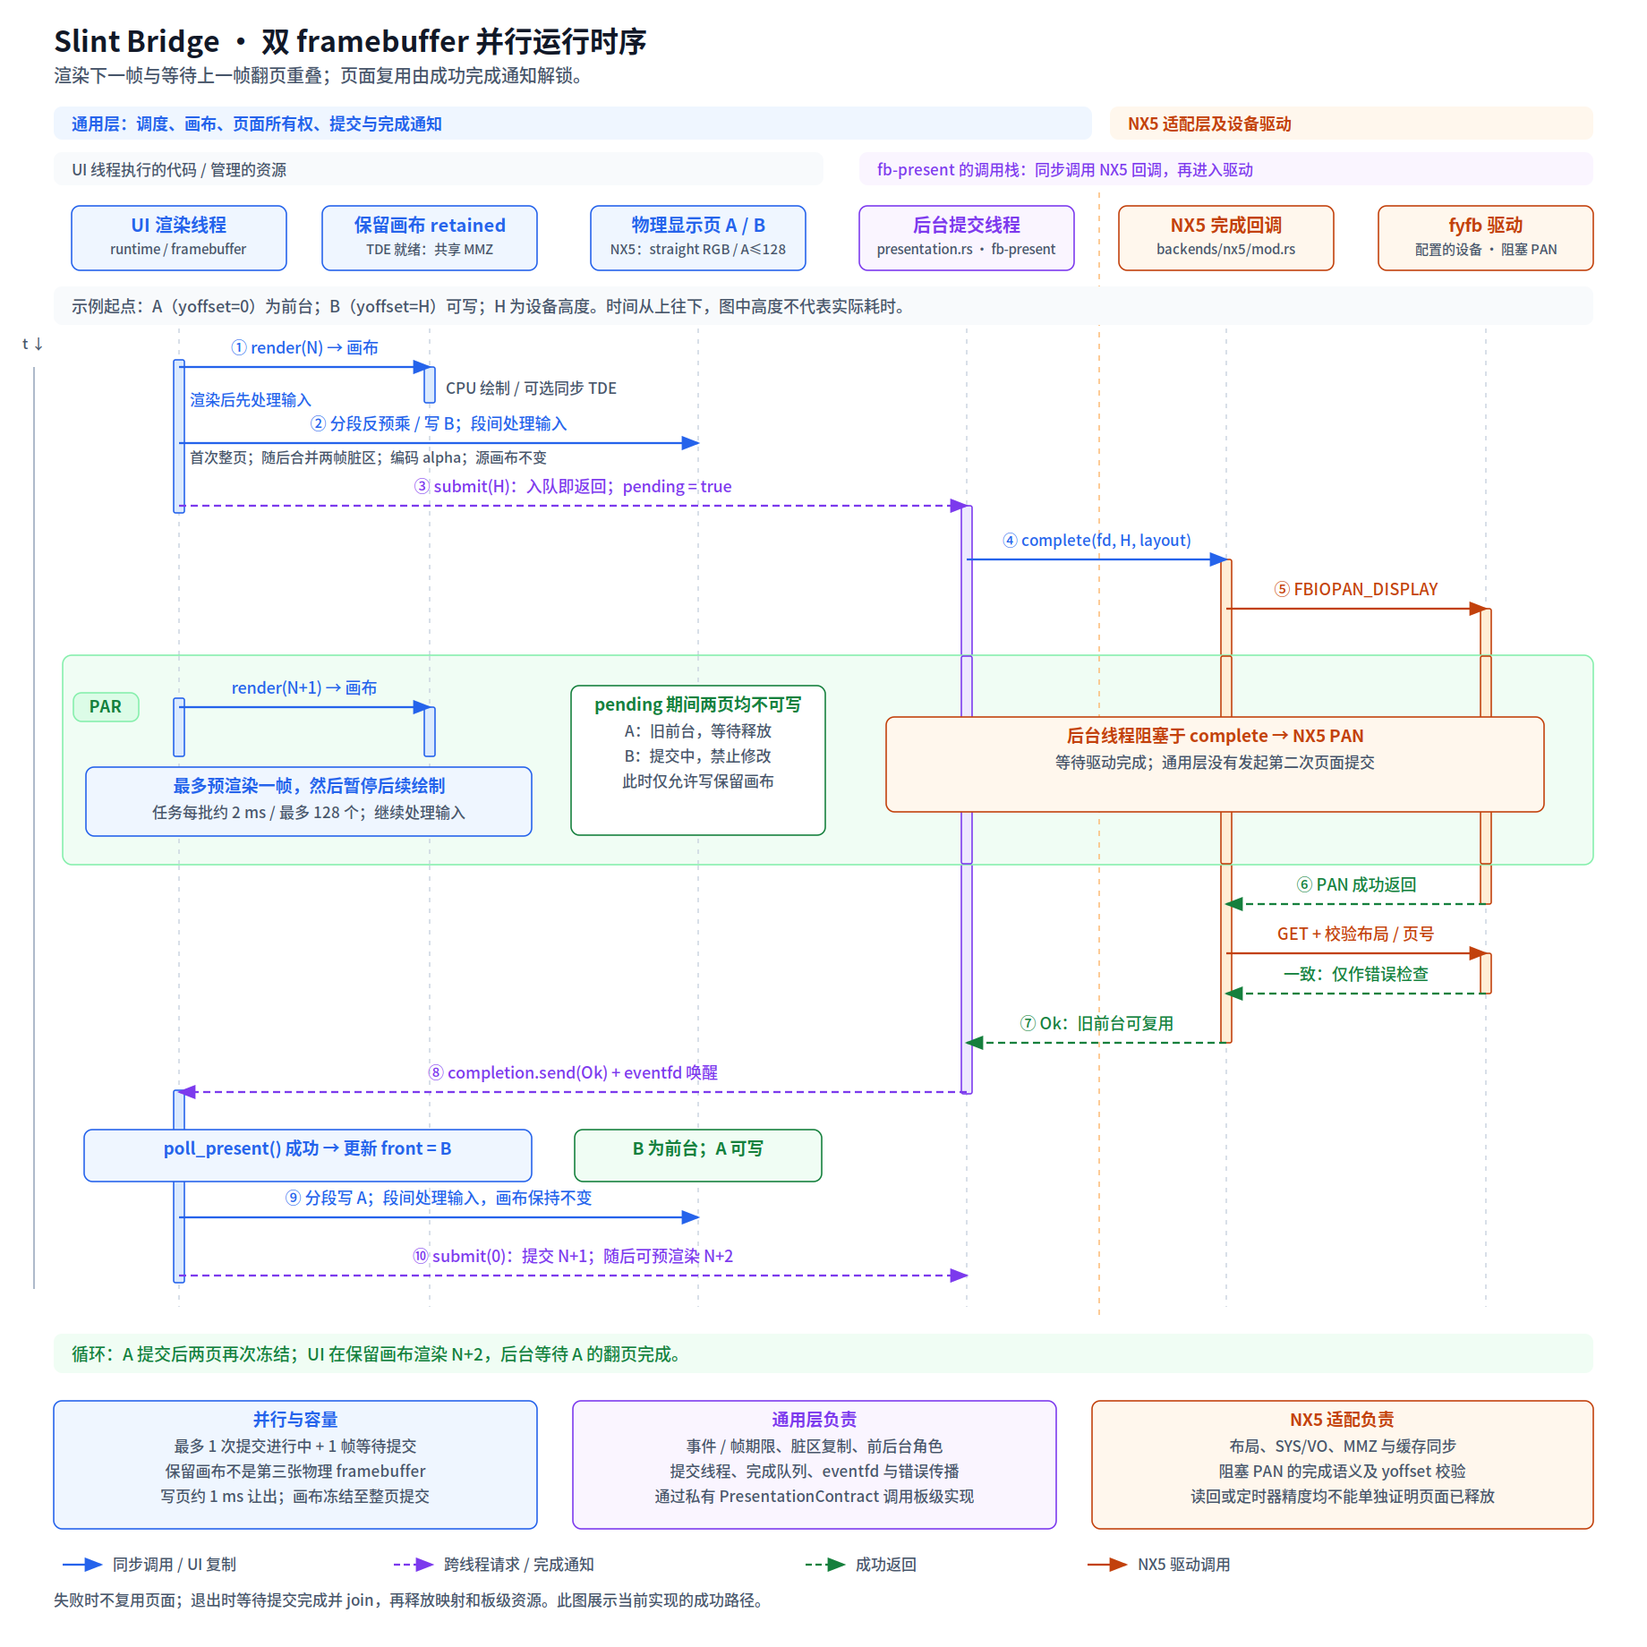
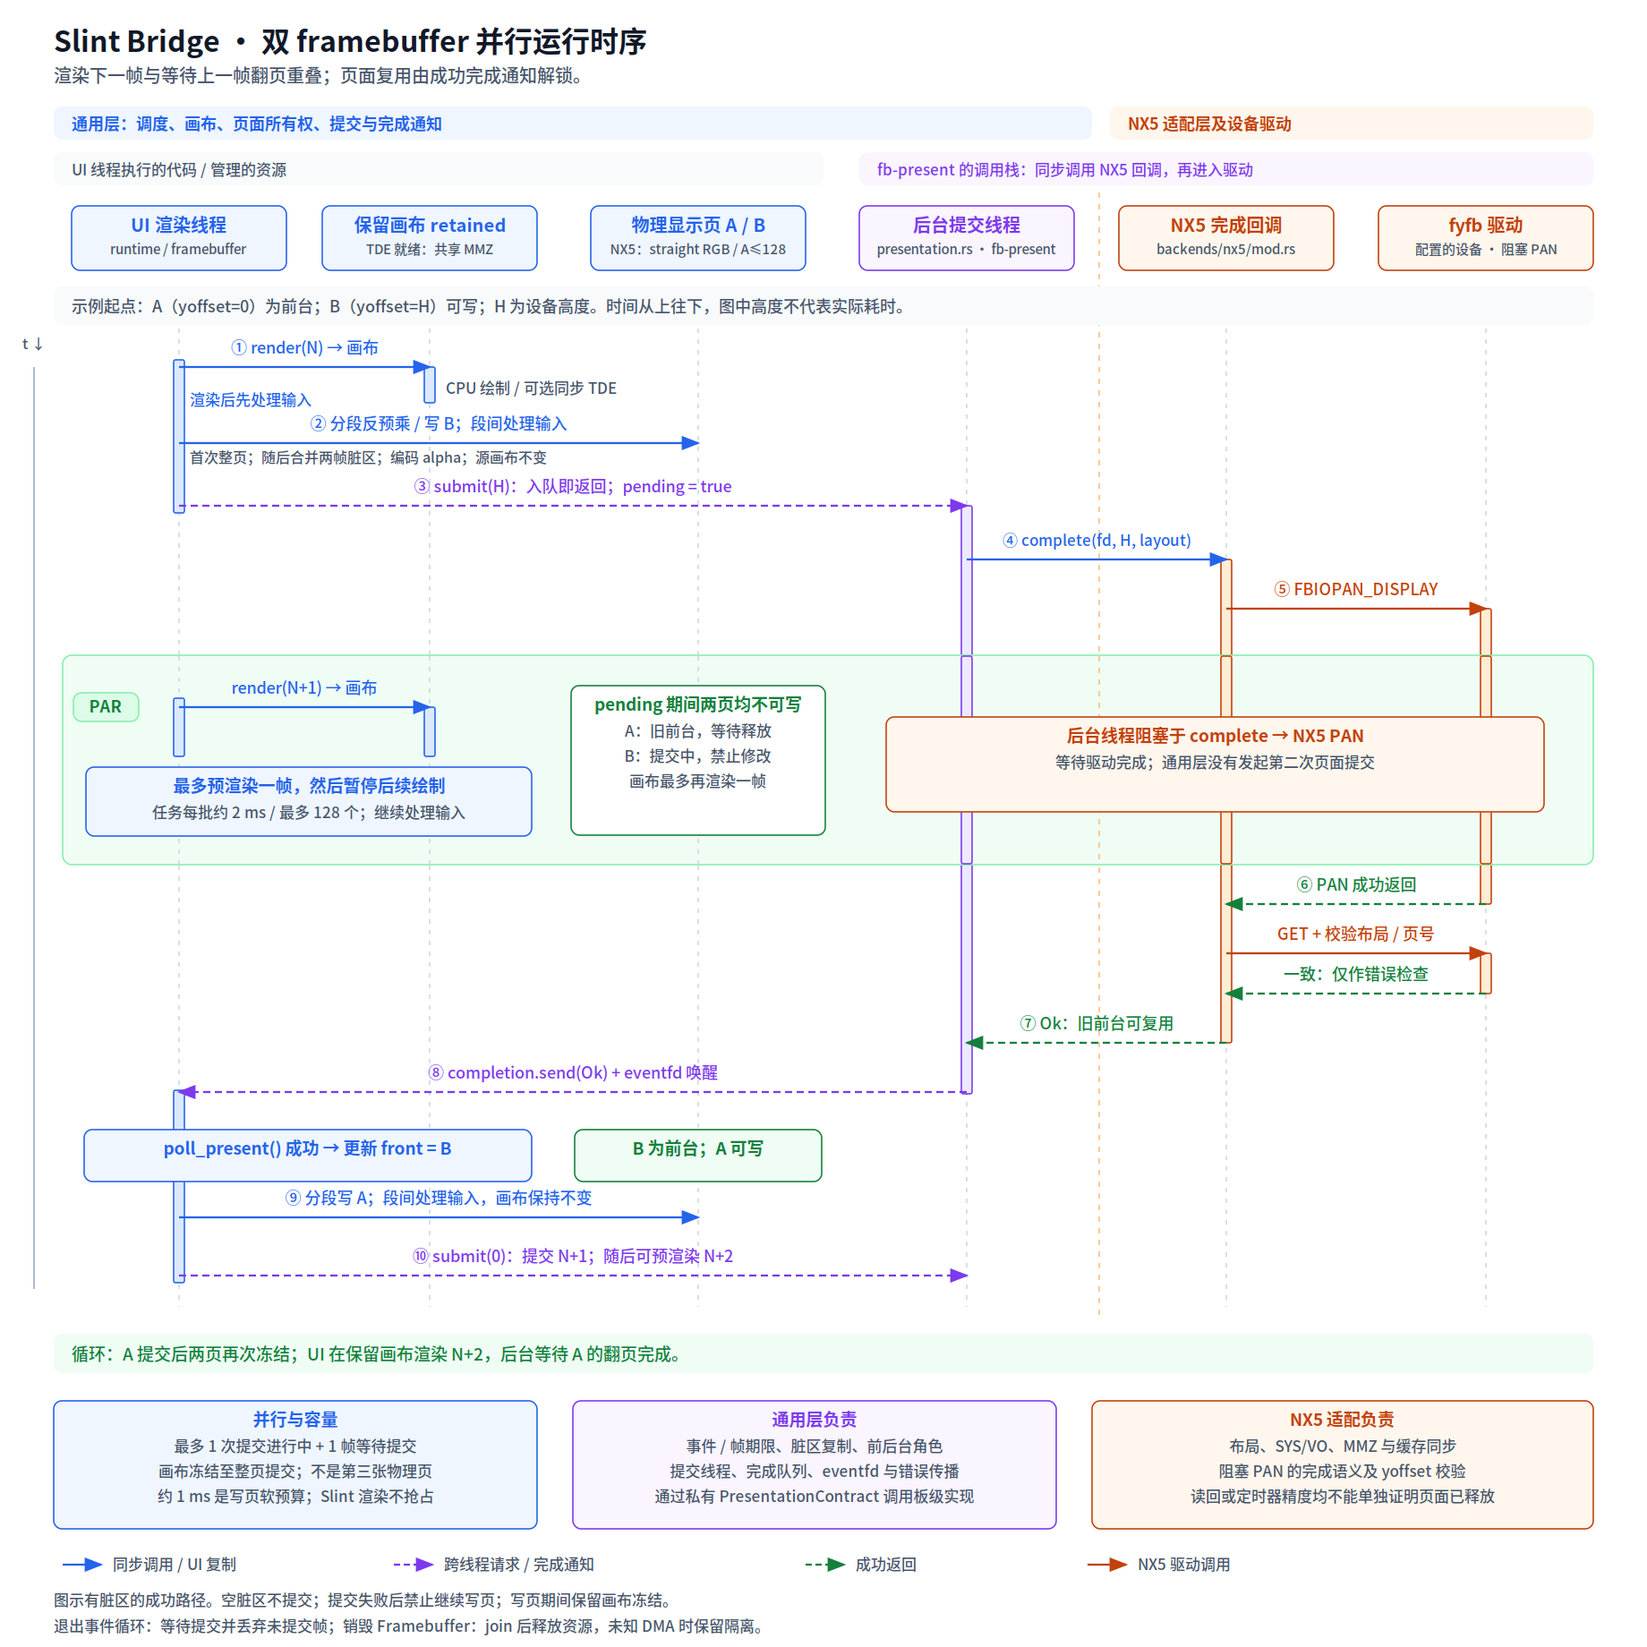
Align architecture and sequence diagrams with current runtime

Changed region(s): [[0.031, 0.9603, 0.4647, 0.9913], [0.0929, 0.8674, 0.2788, 0.9293], [0.3717, 0.4647, 0.4647, 0.4957]]

diff --git a/docs/diagrams/project-structure.html b/docs/diagrams/project-structure.html
@@ -123,7 +123,7 @@
   <g id="node-runtime" data-graph-role="node" data-node-id="runtime" data-semantic-role="rect" data-motion-role="" data-motion-stage="" data-motion-order="" data-parent="" data-deployment-id="" data-topic-id="" data-span-id="" data-station-order="" data-status="" data-start-ms="" data-duration-ms="" data-parent-span="" data-graph-bounds="60,280,460,350">
   <rect x="60.0" y="280.0" width="400.0" height="70.0" rx="10.0" fill="#eff6ff" stroke="#93c5fd" stroke-width="1.8" />
   <text data-text-role="title" data-full-text="runtime.rs" data-text-max-width="376.0" x="260.0" y="315.0" text-anchor="middle" class="node-title" font-size="18">runtime.rs</text>
-  <text data-text-role="subtitle" data-full-text="UI 线程 · Slint 事件循环" data-text-max-width="376.0" x="260.0" y="337.0" text-anchor="middle" class="node-sub" font-size="12">UI 线程 · Slint 事件循环</text>
+  <text data-text-role="subtitle" data-full-text="UI 线程 · 输入 / 任务 · 帧调度" data-text-max-width="376.0" x="260.0" y="337.0" text-anchor="middle" class="node-sub" font-size="12">UI 线程 · 输入 / 任务 · 帧调度</text>
   </g>
   <g id="node-input" data-graph-role="node" data-node-id="input" data-semantic-role="rect" data-motion-role="" data-motion-stage="" data-motion-order="" data-parent="" data-deployment-id="" data-topic-id="" data-span-id="" data-station-order="" data-status="" data-start-ms="" data-duration-ms="" data-parent-span="" data-graph-bounds="60,390,460,460">
   <rect x="60.0" y="390.0" width="400.0" height="70.0" rx="10.0" fill="#eff6ff" stroke="#93c5fd" stroke-width="1.8" />
@@ -138,7 +138,7 @@
   <g id="node-framebuffer" data-graph-role="node" data-node-id="framebuffer" data-semantic-role="rect" data-motion-role="" data-motion-stage="" data-motion-order="" data-parent="" data-deployment-id="" data-topic-id="" data-span-id="" data-station-order="" data-status="" data-start-ms="" data-duration-ms="" data-parent-span="" data-graph-bounds="550,280,950,350">
   <rect x="550.0" y="280.0" width="400.0" height="70.0" rx="10.0" fill="#f0fdfa" stroke="#5eead4" stroke-width="1.8" />
   <text data-text-role="title" data-full-text="framebuffer.rs" data-text-max-width="376.0" x="750.0" y="315.0" text-anchor="middle" class="node-title" font-size="18">framebuffer.rs</text>
-  <text data-text-role="subtitle" data-full-text="保留画布 · 双 framebuffer · 脏区" data-text-max-width="376.0" x="750.0" y="337.0" text-anchor="middle" class="node-sub" font-size="12">保留画布 · 双 framebuffer · 脏区</text>
+  <text data-text-role="subtitle" data-full-text="保留画布 · 双页脏区 · 分段写页" data-text-max-width="376.0" x="750.0" y="337.0" text-anchor="middle" class="node-sub" font-size="12">保留画布 · 双页脏区 · 分段写页</text>
   </g>
   <g id="node-presentation" data-graph-role="node" data-node-id="presentation" data-semantic-role="rect" data-motion-role="" data-motion-stage="" data-motion-order="" data-parent="" data-deployment-id="" data-topic-id="" data-span-id="" data-station-order="" data-status="" data-start-ms="" data-duration-ms="" data-parent-span="" data-graph-bounds="550,390,950,460">
   <rect x="550.0" y="390.0" width="400.0" height="70.0" rx="10.0" fill="#f0fdfa" stroke="#5eead4" stroke-width="1.8" />
@@ -178,7 +178,7 @@
   <g id="node-examples" data-graph-role="node" data-node-id="examples" data-semantic-role="rect" data-motion-role="" data-motion-stage="" data-motion-order="" data-parent="" data-deployment-id="" data-topic-id="" data-span-id="" data-station-order="" data-status="" data-start-ms="" data-duration-ms="" data-parent-span="" data-graph-bounds="760,704,1070,774">
   <rect x="760.0" y="704.0" width="310.0" height="70.0" rx="10.0" fill="#f8fafc" stroke="#cbd5e1" stroke-width="1.8" />
   <text data-text-role="title" data-full-text="test-app/" data-text-max-width="286.0" x="915.0" y="739.0" text-anchor="middle" class="node-title" font-size="18">test-app/</text>
-  <text data-text-role="subtitle" data-full-text="独立 Cargo · .slint 界面 · 接入示例" data-text-max-width="286.0" x="915.0" y="761.0" text-anchor="middle" class="node-sub" font-size="12">独立 Cargo · .slint 界面 · 接入示例</text>
+  <text data-text-role="subtitle" data-full-text="独立 Cargo · .slint · 纵横向交互" data-text-max-width="286.0" x="915.0" y="761.0" text-anchor="middle" class="node-sub" font-size="12">独立 Cargo · .slint · 纵横向交互</text>
   </g>
   <g id="node-tests" data-graph-role="node" data-node-id="tests" data-semantic-role="rect" data-motion-role="" data-motion-stage="" data-motion-order="" data-parent="" data-deployment-id="" data-topic-id="" data-span-id="" data-station-order="" data-status="" data-start-ms="" data-duration-ms="" data-parent-span="" data-graph-bounds="1110,704,1420,774">
   <rect x="1110.0" y="704.0" width="310.0" height="70.0" rx="10.0" fill="#f8fafc" stroke="#cbd5e1" stroke-width="1.8" />
@@ -193,7 +193,7 @@
   <g id="node-tools" data-graph-role="node" data-node-id="tools" data-semantic-role="rect" data-motion-role="" data-motion-stage="" data-motion-order="" data-parent="" data-deployment-id="" data-topic-id="" data-span-id="" data-station-order="" data-status="" data-start-ms="" data-duration-ms="" data-parent-span="" data-graph-bounds="410,818,720,888">
   <rect x="410.0" y="818.0" width="310.0" height="70.0" rx="10.0" fill="#f8fafc" stroke="#cbd5e1" stroke-width="1.8" />
   <text data-text-role="title" data-full-text="test-app/tools/" data-text-max-width="286.0" x="565.0" y="853.0" text-anchor="middle" class="node-title" font-size="18">test-app/tools/</text>
-  <text data-text-role="subtitle" data-full-text="feature 检查 · 分设备诊断与重放" data-text-max-width="286.0" x="565.0" y="875.0" text-anchor="middle" class="node-sub" font-size="12">feature 检查 · 分设备诊断与重放</text>
+  <text data-text-role="subtitle" data-full-text="feature · 原生 MCP · 设备诊断" data-text-max-width="286.0" x="565.0" y="875.0" text-anchor="middle" class="node-sub" font-size="12">feature · 原生 MCP · 设备诊断</text>
   </g>
   <g id="node-evidence" data-graph-role="node" data-node-id="evidence" data-semantic-role="rect" data-motion-role="" data-motion-stage="" data-motion-order="" data-parent="" data-deployment-id="" data-topic-id="" data-span-id="" data-station-order="" data-status="" data-start-ms="" data-duration-ms="" data-parent-span="" data-graph-bounds="760,818,1070,888">
   <rect x="760.0" y="818.0" width="310.0" height="70.0" rx="10.0" fill="#f8fafc" stroke="#cbd5e1" stroke-width="1.8" />
@@ -208,12 +208,12 @@
   <g id="node-flow_rt" data-graph-role="node" data-node-id="flow_rt" data-semantic-role="rect" data-motion-role="" data-motion-stage="" data-motion-order="" data-parent="" data-deployment-id="" data-topic-id="" data-span-id="" data-station-order="" data-status="" data-start-ms="" data-duration-ms="" data-parent-span="" data-graph-bounds="60,1026,280,1096">
   <rect x="60.0" y="1026.0" width="220.0" height="70.0" rx="10.0" fill="#eff6ff" stroke="#93c5fd" stroke-width="1.8" />
   <text data-text-role="title" data-full-text="runtime.rs" data-text-max-width="196.0" x="170.0" y="1061.0" text-anchor="middle" class="node-title" font-size="18">runtime.rs</text>
-  <text data-text-role="subtitle" data-full-text="调度绘制与提交" data-text-max-width="196.0" x="170.0" y="1083.0" text-anchor="middle" class="node-sub" font-size="12">调度绘制与提交</text>
+  <text data-text-role="subtitle" data-full-text="渲染 / 写段后处理输入" data-text-max-width="196.0" x="170.0" y="1083.0" text-anchor="middle" class="node-sub" font-size="12">渲染 / 写段后处理输入</text>
   </g>
   <g id="node-flow_fb" data-graph-role="node" data-node-id="flow_fb" data-semantic-role="rect" data-motion-role="" data-motion-stage="" data-motion-order="" data-parent="" data-deployment-id="" data-topic-id="" data-span-id="" data-station-order="" data-status="" data-start-ms="" data-duration-ms="" data-parent-span="" data-graph-bounds="350,1026,570,1096">
   <rect x="350.0" y="1026.0" width="220.0" height="70.0" rx="10.0" fill="#eff6ff" stroke="#93c5fd" stroke-width="1.8" />
   <text data-text-role="title" data-full-text="framebuffer.rs" data-text-max-width="196.0" x="460.0" y="1061.0" text-anchor="middle" class="node-title" font-size="18">framebuffer.rs</text>
-  <text data-text-role="subtitle" data-full-text="仅写可用后台页" data-text-max-width="196.0" x="460.0" y="1083.0" text-anchor="middle" class="node-sub" font-size="12">仅写可用后台页</text>
+  <text data-text-role="subtitle" data-full-text="约 1 ms 分段写后台页" data-text-max-width="196.0" x="460.0" y="1083.0" text-anchor="middle" class="node-sub" font-size="12">约 1 ms 分段写后台页</text>
   </g>
   <g id="node-flow_pr" data-graph-role="node" data-node-id="flow_pr" data-semantic-role="rect" data-motion-role="" data-motion-stage="" data-motion-order="" data-parent="" data-deployment-id="" data-topic-id="" data-span-id="" data-station-order="" data-status="" data-start-ms="" data-duration-ms="" data-parent-span="" data-graph-bounds="640,1026,860,1096">
   <rect x="640.0" y="1026.0" width="220.0" height="70.0" rx="10.0" fill="#eff6ff" stroke="#93c5fd" stroke-width="1.8" />
@@ -227,8 +227,8 @@
   </g>
   <g id="node-flow_dev" data-graph-role="node" data-node-id="flow_dev" data-semantic-role="rect" data-motion-role="" data-motion-stage="" data-motion-order="" data-parent="" data-deployment-id="" data-topic-id="" data-span-id="" data-station-order="" data-status="" data-start-ms="" data-duration-ms="" data-parent-span="" data-graph-bounds="1220,1026,1440,1096">
   <rect x="1220.0" y="1026.0" width="220.0" height="70.0" rx="10.0" fill="#fff7ed" stroke="#fdba74" stroke-width="1.8" />
-  <text data-text-role="title" data-full-text="/dev/fb0" data-text-max-width="196.0" x="1330.0" y="1061.0" text-anchor="middle" class="node-title" font-size="18">/dev/fb0</text>
-  <text data-text-role="subtitle" data-full-text="两张显示页" data-text-max-width="196.0" x="1330.0" y="1083.0" text-anchor="middle" class="node-sub" font-size="12">两张显示页</text>
+  <text data-text-role="title" data-full-text="framebuffer 设备" data-text-max-width="196.0" x="1330.0" y="1061.0" text-anchor="middle" class="node-title" font-size="18">framebuffer 设备</text>
+  <text data-text-role="subtitle" data-full-text="Config.framebuffer 指定路径" data-text-max-width="196.0" x="1330.0" y="1083.0" text-anchor="middle" class="node-sub" font-size="12">Config.framebuffer 指定路径</text>
   </g>
   <g id="footer" data-graph-role="reserved" data-graph-bounds="48,1174,461,1190">
   <text x="48.0" y="1186.0" class="footnote">特性：fbdev 与 nx5 互斥；nx5-tde 包含 nx5。外部依赖：Slint 1.18.1、NX5 SDK。</text>

diff --git a/docs/diagrams/runtime-sequence.html b/docs/diagrams/runtime-sequence.html
@@ -40,7 +40,7 @@
   <main id="stage" tabindex="0" aria-label="Interactive diagram. Drag to pan; use plus and minus to zoom.">
     <div id="canvas"><svg xmlns="http://www.w3.org/2000/svg" width="1840" height="1840" viewBox="0 0 1840 1840" data-generator="fireworks-tech-graph" data-style-id="1" data-diagram-type="sequence" data-quality-profile="showcase" role="img" focusable="false">
 <title>Slint Bridge · 双 framebuffer 并行运行时序</title>
-<desc>依据 src/runtime.rs、framebuffer.rs、presentation.rs、backends/mod.rs、backends/nx5/mod.rs。仅展示成功路径；初始 A 为前台、B 为后台。渲染后及写页分段之间处理输入，写页期间冻结保留画布，整页完成后才提交。UI 预渲染 N+1 可与后台提交 N 的阻塞 PAN 并行。完成成功后才允许复用旧前台页。NX5 回调与通用提交器属于同一个后台线程。</desc>
+<desc>依据 src/runtime.rs、framebuffer.rs、presentation.rs、backends/mod.rs、backends/nx5/mod.rs。仅展示有脏区的成功提交路径；初始 A 为前台、B 为后台。渲染后及写页分段之间处理输入，写页期间冻结保留画布，整页完成后才提交。UI 预渲染 N+1 可与后台提交 N 的阻塞 PAN 并行。完成成功后才允许复用旧前台页。NX5 回调与通用提交器属于同一个后台线程。</desc>
 <style>text {font-family:'Noto Sans CJK SC','PingFang SC','Microsoft YaHei',sans-serif;}</style>
 <defs>
 <marker id="arrow-call" markerWidth="9" markerHeight="7" refX="8" refY="3.5" orient="auto"><path d="M0,0 L9,3.5 L0,7 Z" fill="#2563eb" /></marker>
@@ -134,7 +134,7 @@
 <text id="text-33" data-graph-role="content" x="780.0" y="794" text-anchor="middle" font-size="19" font-weight="600" fill="#15803d">pending 期间两页均不可写</text>
 <text id="text-34" data-graph-role="content" x="780.0" y="823" text-anchor="middle" font-size="17" font-weight="400" fill="#475569">A：旧前台，等待释放</text>
 <text id="text-35" data-graph-role="content" x="780.0" y="851" text-anchor="middle" font-size="17" font-weight="400" fill="#475569">B：提交中，禁止修改</text>
-<text id="text-36" data-graph-role="content" x="780.0" y="879" text-anchor="middle" font-size="17" font-weight="400" fill="#475569">此时仅允许写保留画布</text>
+<text id="text-36" data-graph-role="content" x="780.0" y="879" text-anchor="middle" font-size="17" font-weight="400" fill="#475569">画布最多再渲染一帧</text>
 <rect id="blocked-worker" data-graph-bounds="990,801,1725,907" data-graph-role="reserved" x="990" y="801" width="735" height="106" rx="9" fill="#fff7ed" stroke="#c2410c" stroke-width="1.6" />
 <text id="text-37" data-graph-role="content" x="1357.5" y="829" text-anchor="middle" font-size="19" font-weight="600" fill="#c2410c">后台线程阻塞于 complete → NX5 PAN</text>
 <text id="text-38" data-graph-role="content" x="1357.5" y="858" text-anchor="middle" font-size="17" font-weight="400" fill="#475569">等待驱动完成；通用层没有发起第二次页面提交</text>
@@ -161,8 +161,8 @@
 <rect id="capacity" data-graph-bounds="60,1565,600,1708" data-graph-role="reserved" x="60" y="1565" width="540" height="143" rx="9" fill="#eff6ff" stroke="#2563eb" stroke-width="1.6" />
 <text id="text-49" data-graph-role="content" x="330.0" y="1593" text-anchor="middle" font-size="19" font-weight="600" fill="#2563eb">并行与容量</text>
 <text id="text-50" data-graph-role="content" x="330.0" y="1622" text-anchor="middle" font-size="17" font-weight="400" fill="#475569">最多 1 次提交进行中 + 1 帧等待提交</text>
-<text id="text-51" data-graph-role="content" x="330.0" y="1650" text-anchor="middle" font-size="17" font-weight="400" fill="#475569">保留画布不是第三张物理 framebuffer</text>
-<text id="text-52" data-graph-role="content" x="330.0" y="1678" text-anchor="middle" font-size="17" font-weight="400" fill="#475569">写页约 1 ms 让出；画布冻结至整页提交</text>
+<text id="text-51" data-graph-role="content" x="330.0" y="1650" text-anchor="middle" font-size="17" font-weight="400" fill="#475569">画布冻结至整页提交；不是第三张物理页</text>
+<text id="text-52" data-graph-role="content" x="330.0" y="1678" text-anchor="middle" font-size="17" font-weight="400" fill="#475569">约 1 ms 是写页软预算；Slint 渲染不抢占</text>
 <rect id="generic-contract" data-graph-bounds="640,1565,1180,1708" data-graph-role="reserved" x="640" y="1565" width="540" height="143" rx="9" fill="#faf5ff" stroke="#7c3aed" stroke-width="1.6" />
 <text id="text-53" data-graph-role="content" x="910.0" y="1593" text-anchor="middle" font-size="19" font-weight="600" fill="#7c3aed">通用层负责</text>
 <text id="text-54" data-graph-role="content" x="910.0" y="1622" text-anchor="middle" font-size="17" font-weight="400" fill="#475569">事件 / 帧期限、脏区复制、前后台角色</text>
@@ -181,7 +181,8 @@
 <text id="text-63" data-graph-role="label" data-graph-bounds="956.00,1737,1024.00,1758" x="956" y="1754" text-anchor="start" font-size="17" font-weight="400" fill="#475569">成功返回</text>
 <line data-graph-role="decoration" x1="1215" y1="1748" x2="1258" y2="1748" stroke="#c2410c" stroke-width="2.3" marker-end="url(#arrow-driver)" />
 <text id="text-64" data-graph-role="label" data-graph-bounds="1271.00,1737,1374.28,1758" x="1271" y="1754" text-anchor="start" font-size="17" font-weight="400" fill="#475569">NX5 驱动调用</text>
-<text id="text-65" data-graph-role="label" data-graph-bounds="60.00,1777,858.83,1798" x="60" y="1794" text-anchor="start" font-size="17" font-weight="400" fill="#475569">失败时不复用页面；退出时等待提交完成并 join，再释放映射和板级资源。此图展示当前实现的成功路径。</text>
+<text id="text-65" data-graph-role="label" data-graph-bounds="60.00,1777,757.00,1798" x="60" y="1794" text-anchor="start" font-size="17" font-weight="400" fill="#475569">图示有脏区的成功路径。空脏区不提交；提交失败后禁止继续写页；写页期间保留画布冻结。</text>
+<text id="text-66" data-graph-role="label" data-graph-bounds="60.00,1806,850.58,1827" x="60" y="1823" text-anchor="start" font-size="17" font-weight="400" fill="#475569">退出事件循环：等待提交并丢弃未提交帧；销毁 Framebuffer：join 后释放资源，未知 DMA 时保留隔离。</text>
 </svg></div>
     <p class="sr-only">Keyboard shortcuts: plus and minus zoom, zero resets, T toggles theme, S exports.</p>
   </main>
